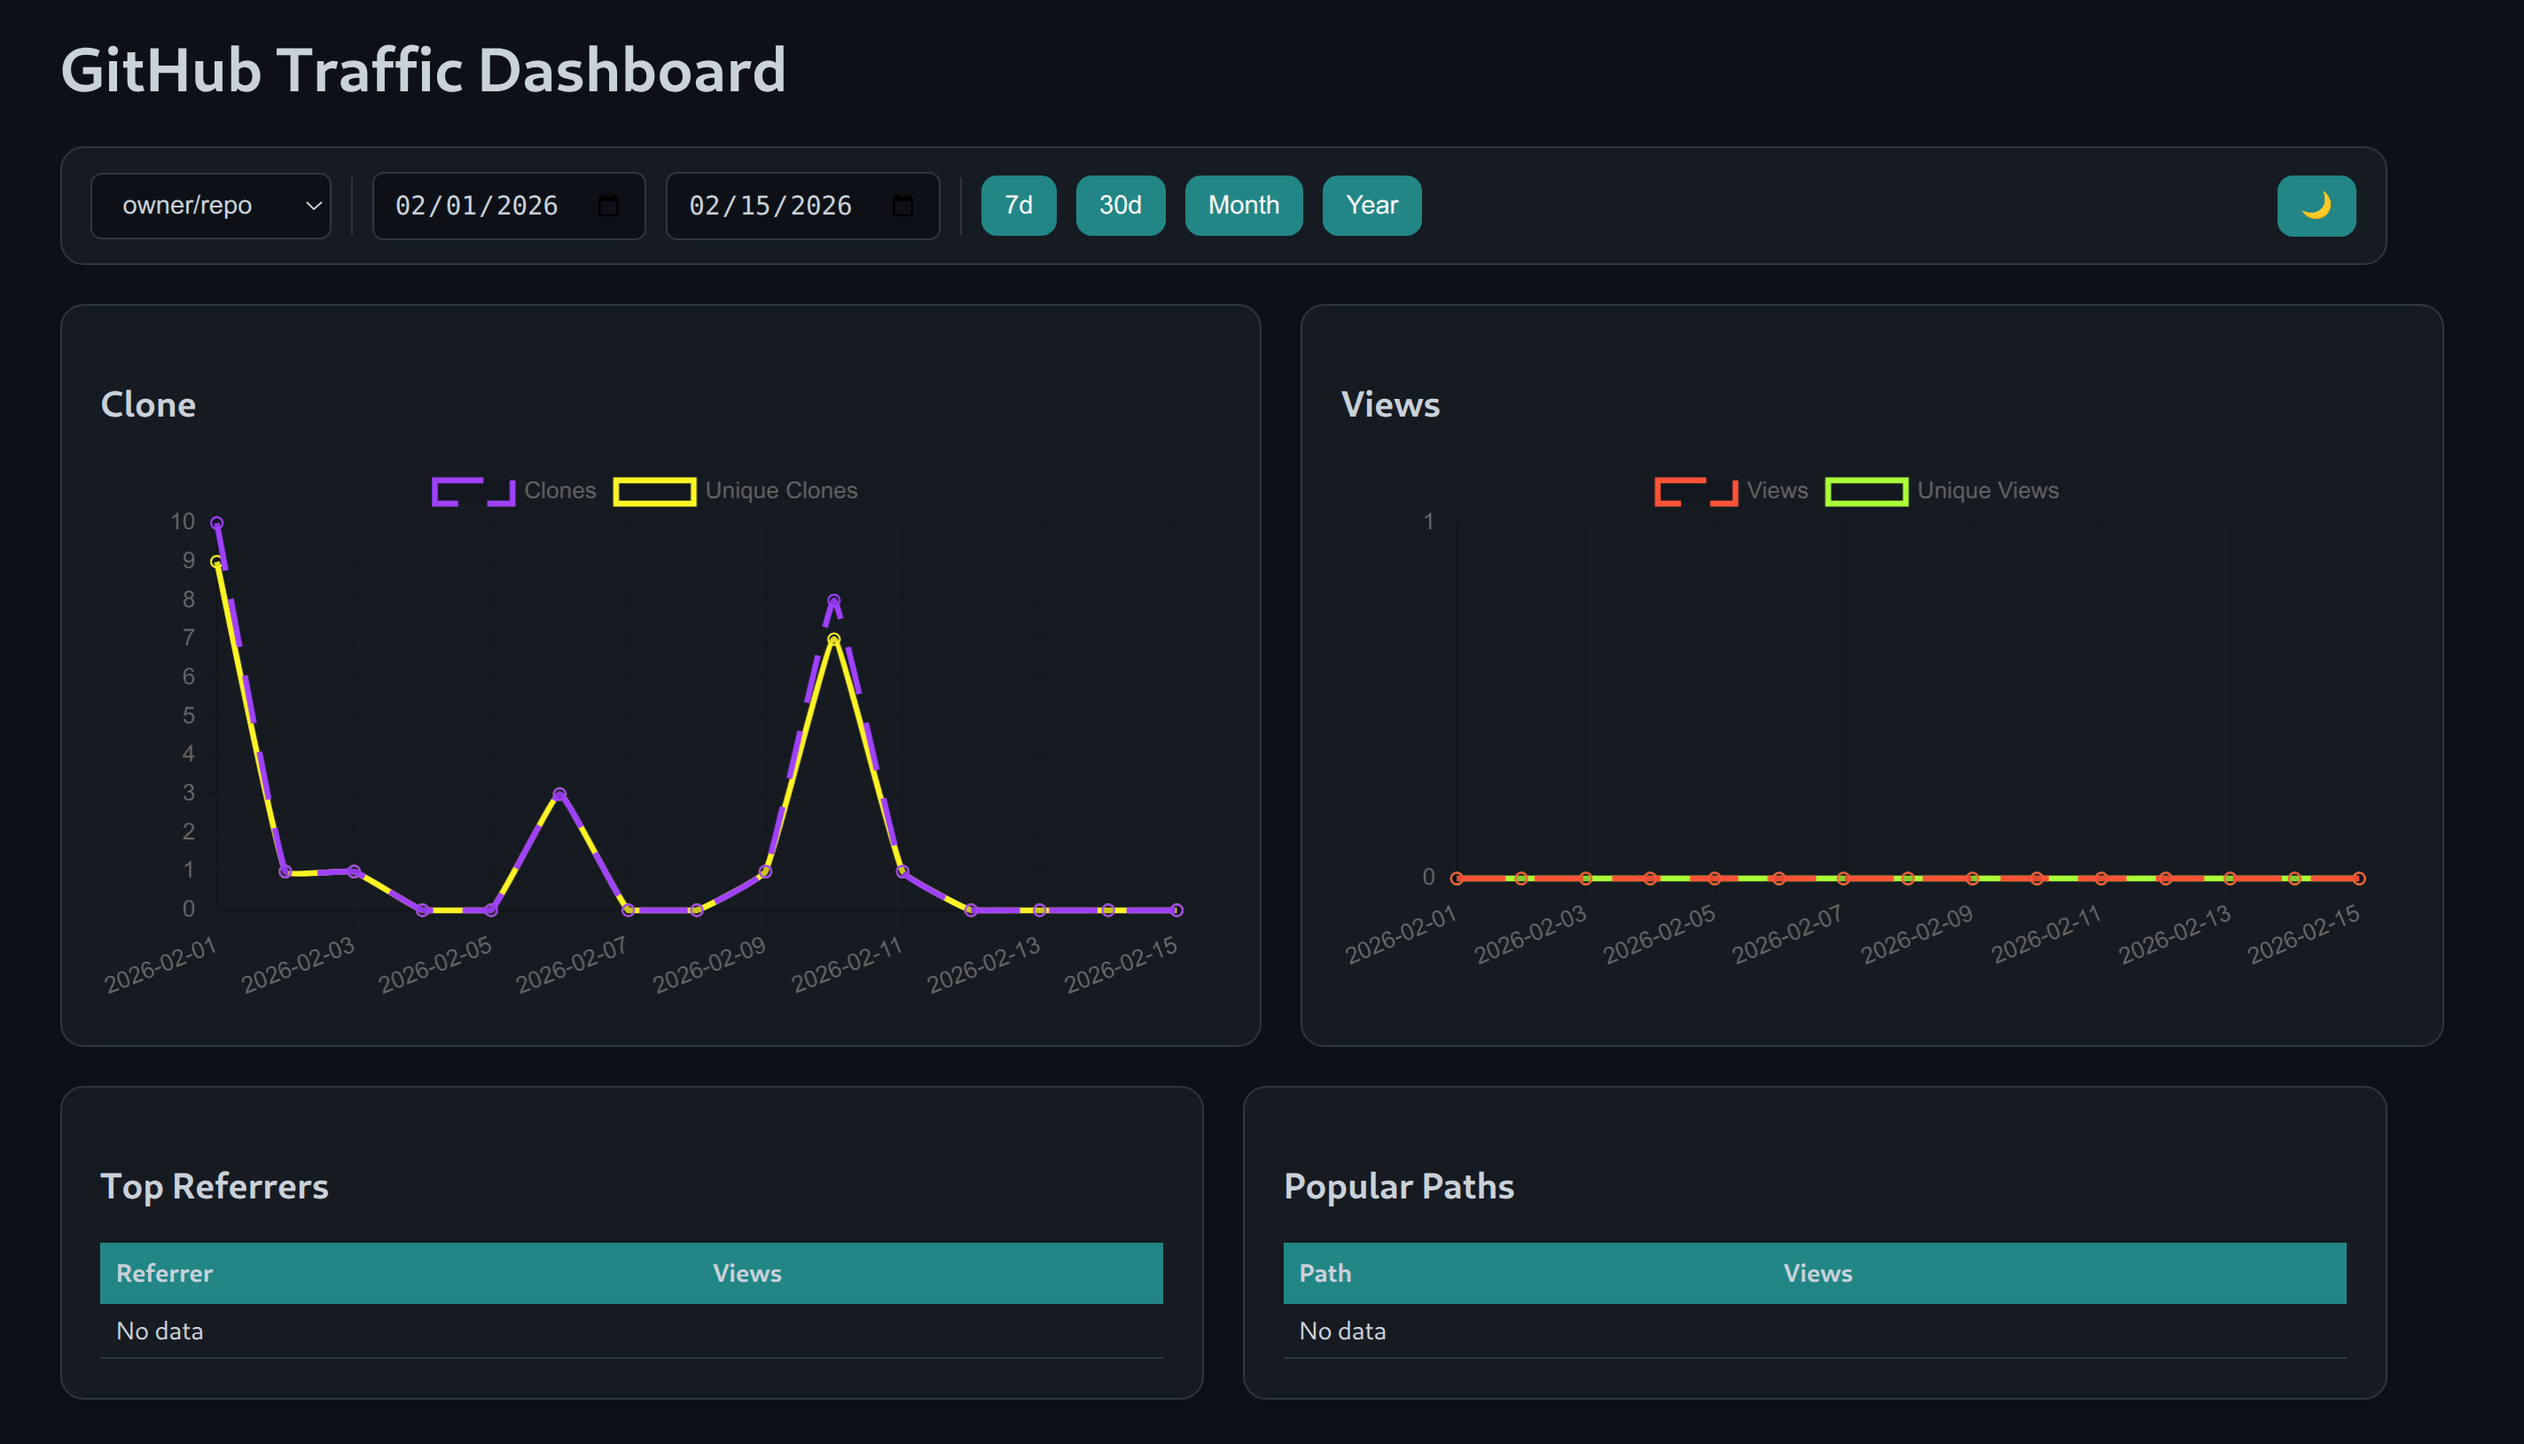
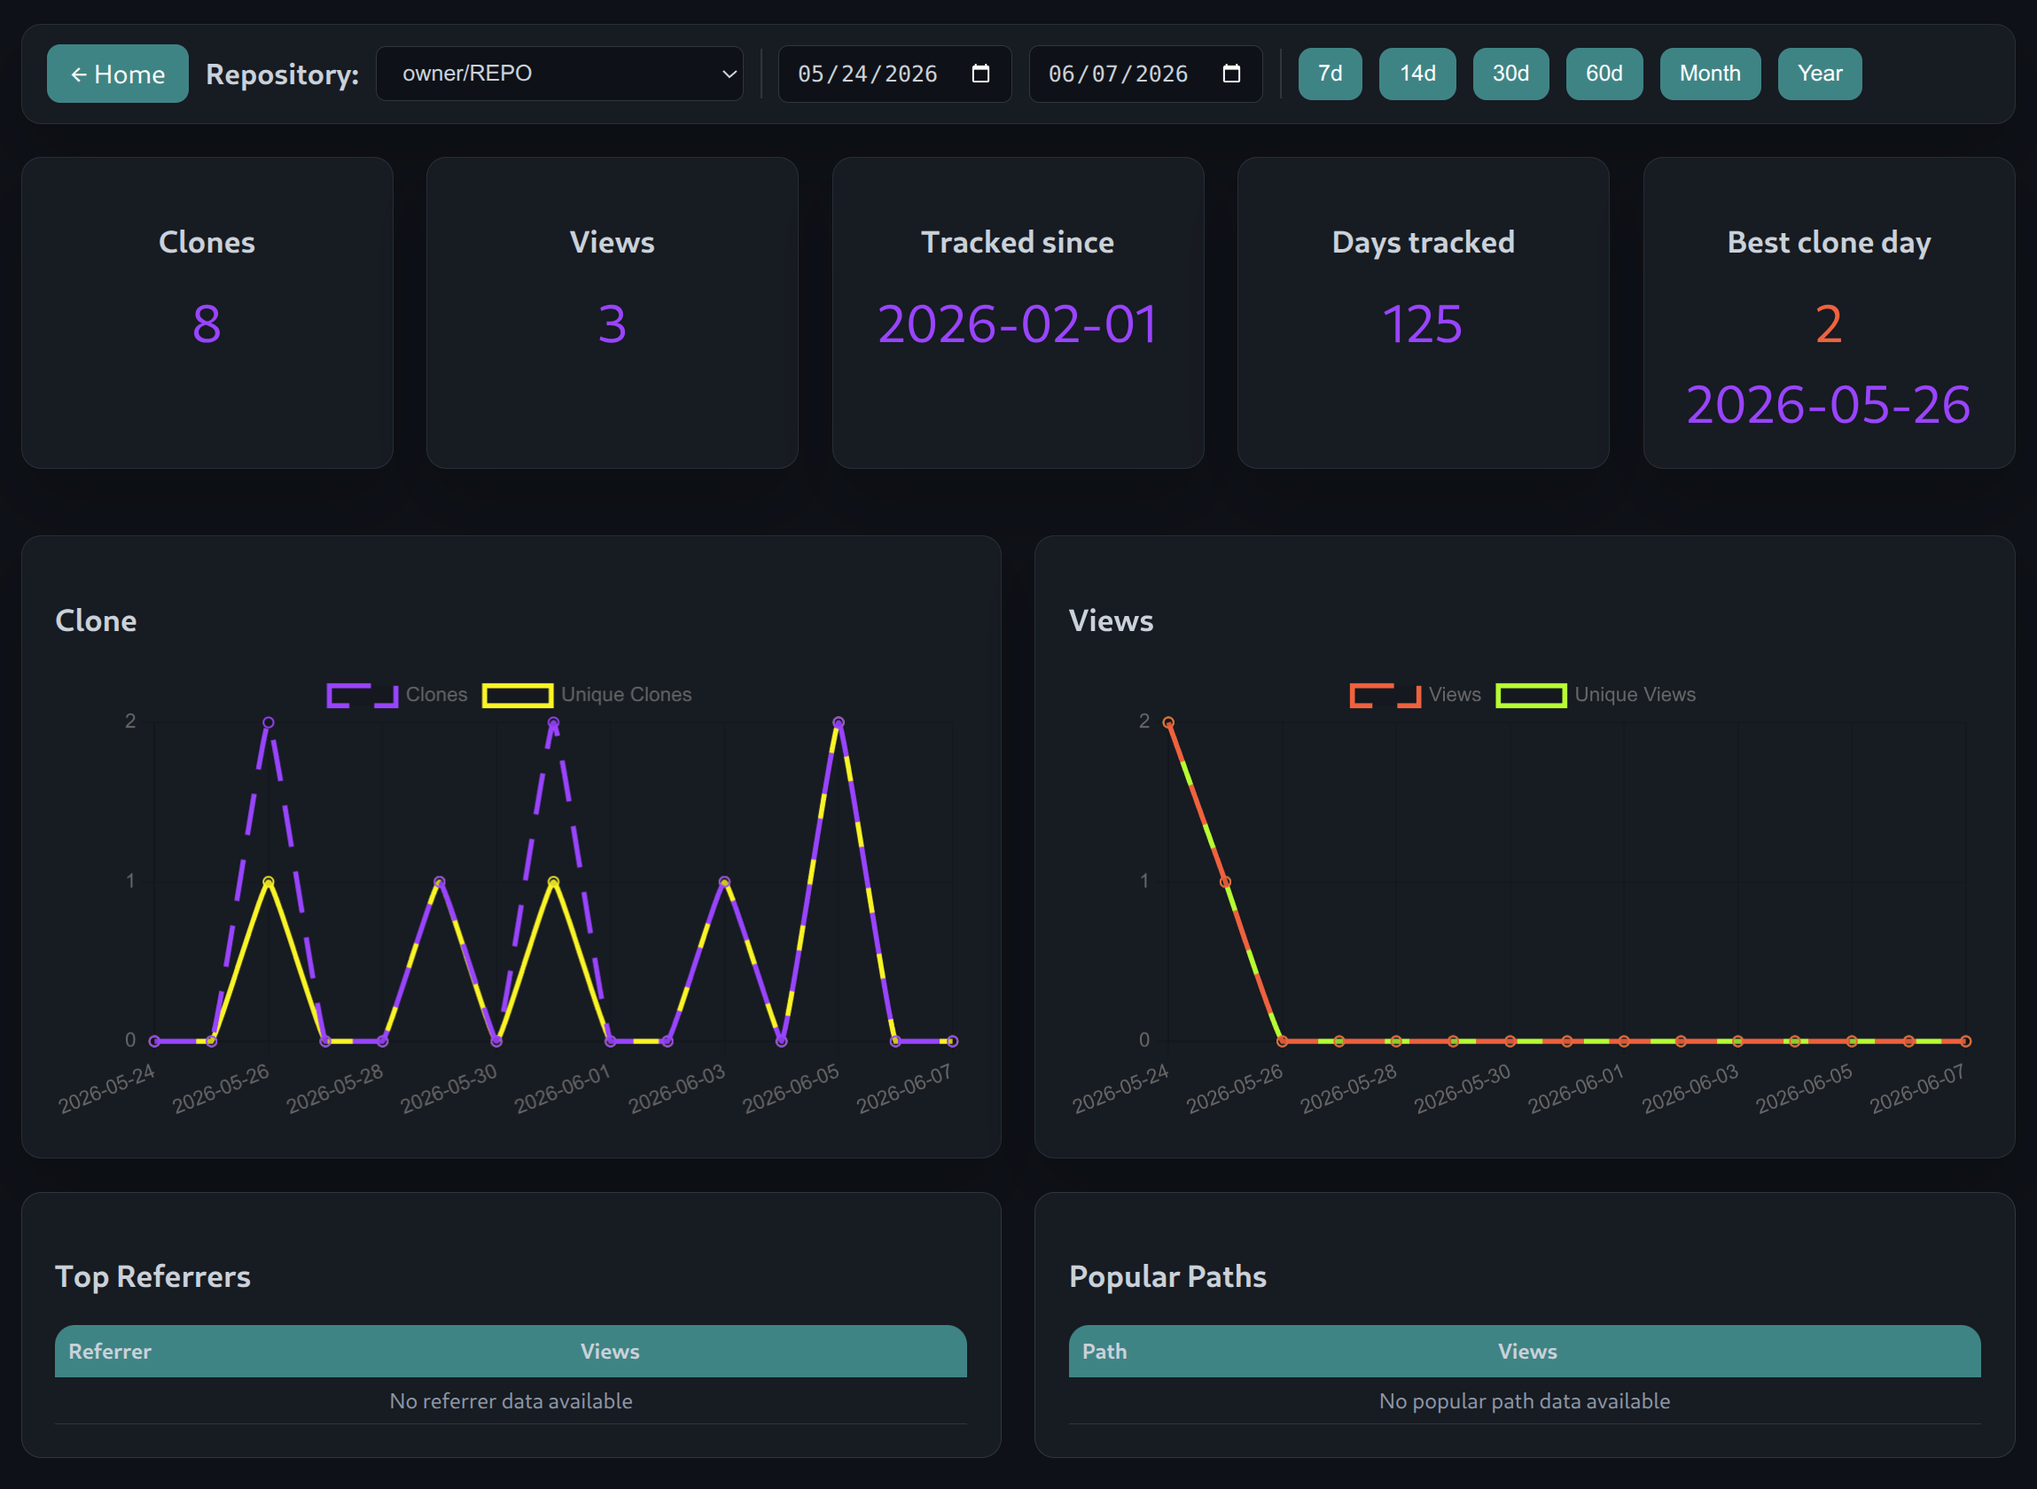
Img update

diff --git a/README.md b/README.md
@@ -1,5 +1,8 @@
 # GitHub Traffic Monitor
 
+![Screenshot](IMG/Index.png)
+
+
 ![Screenshot](IMG/Dashboard.png)
 
 A self-hosted web dashboard to monitor GitHub repository traffic metrics including clones, views, popular referrers, and popular paths. Like Github but with more historical data.
